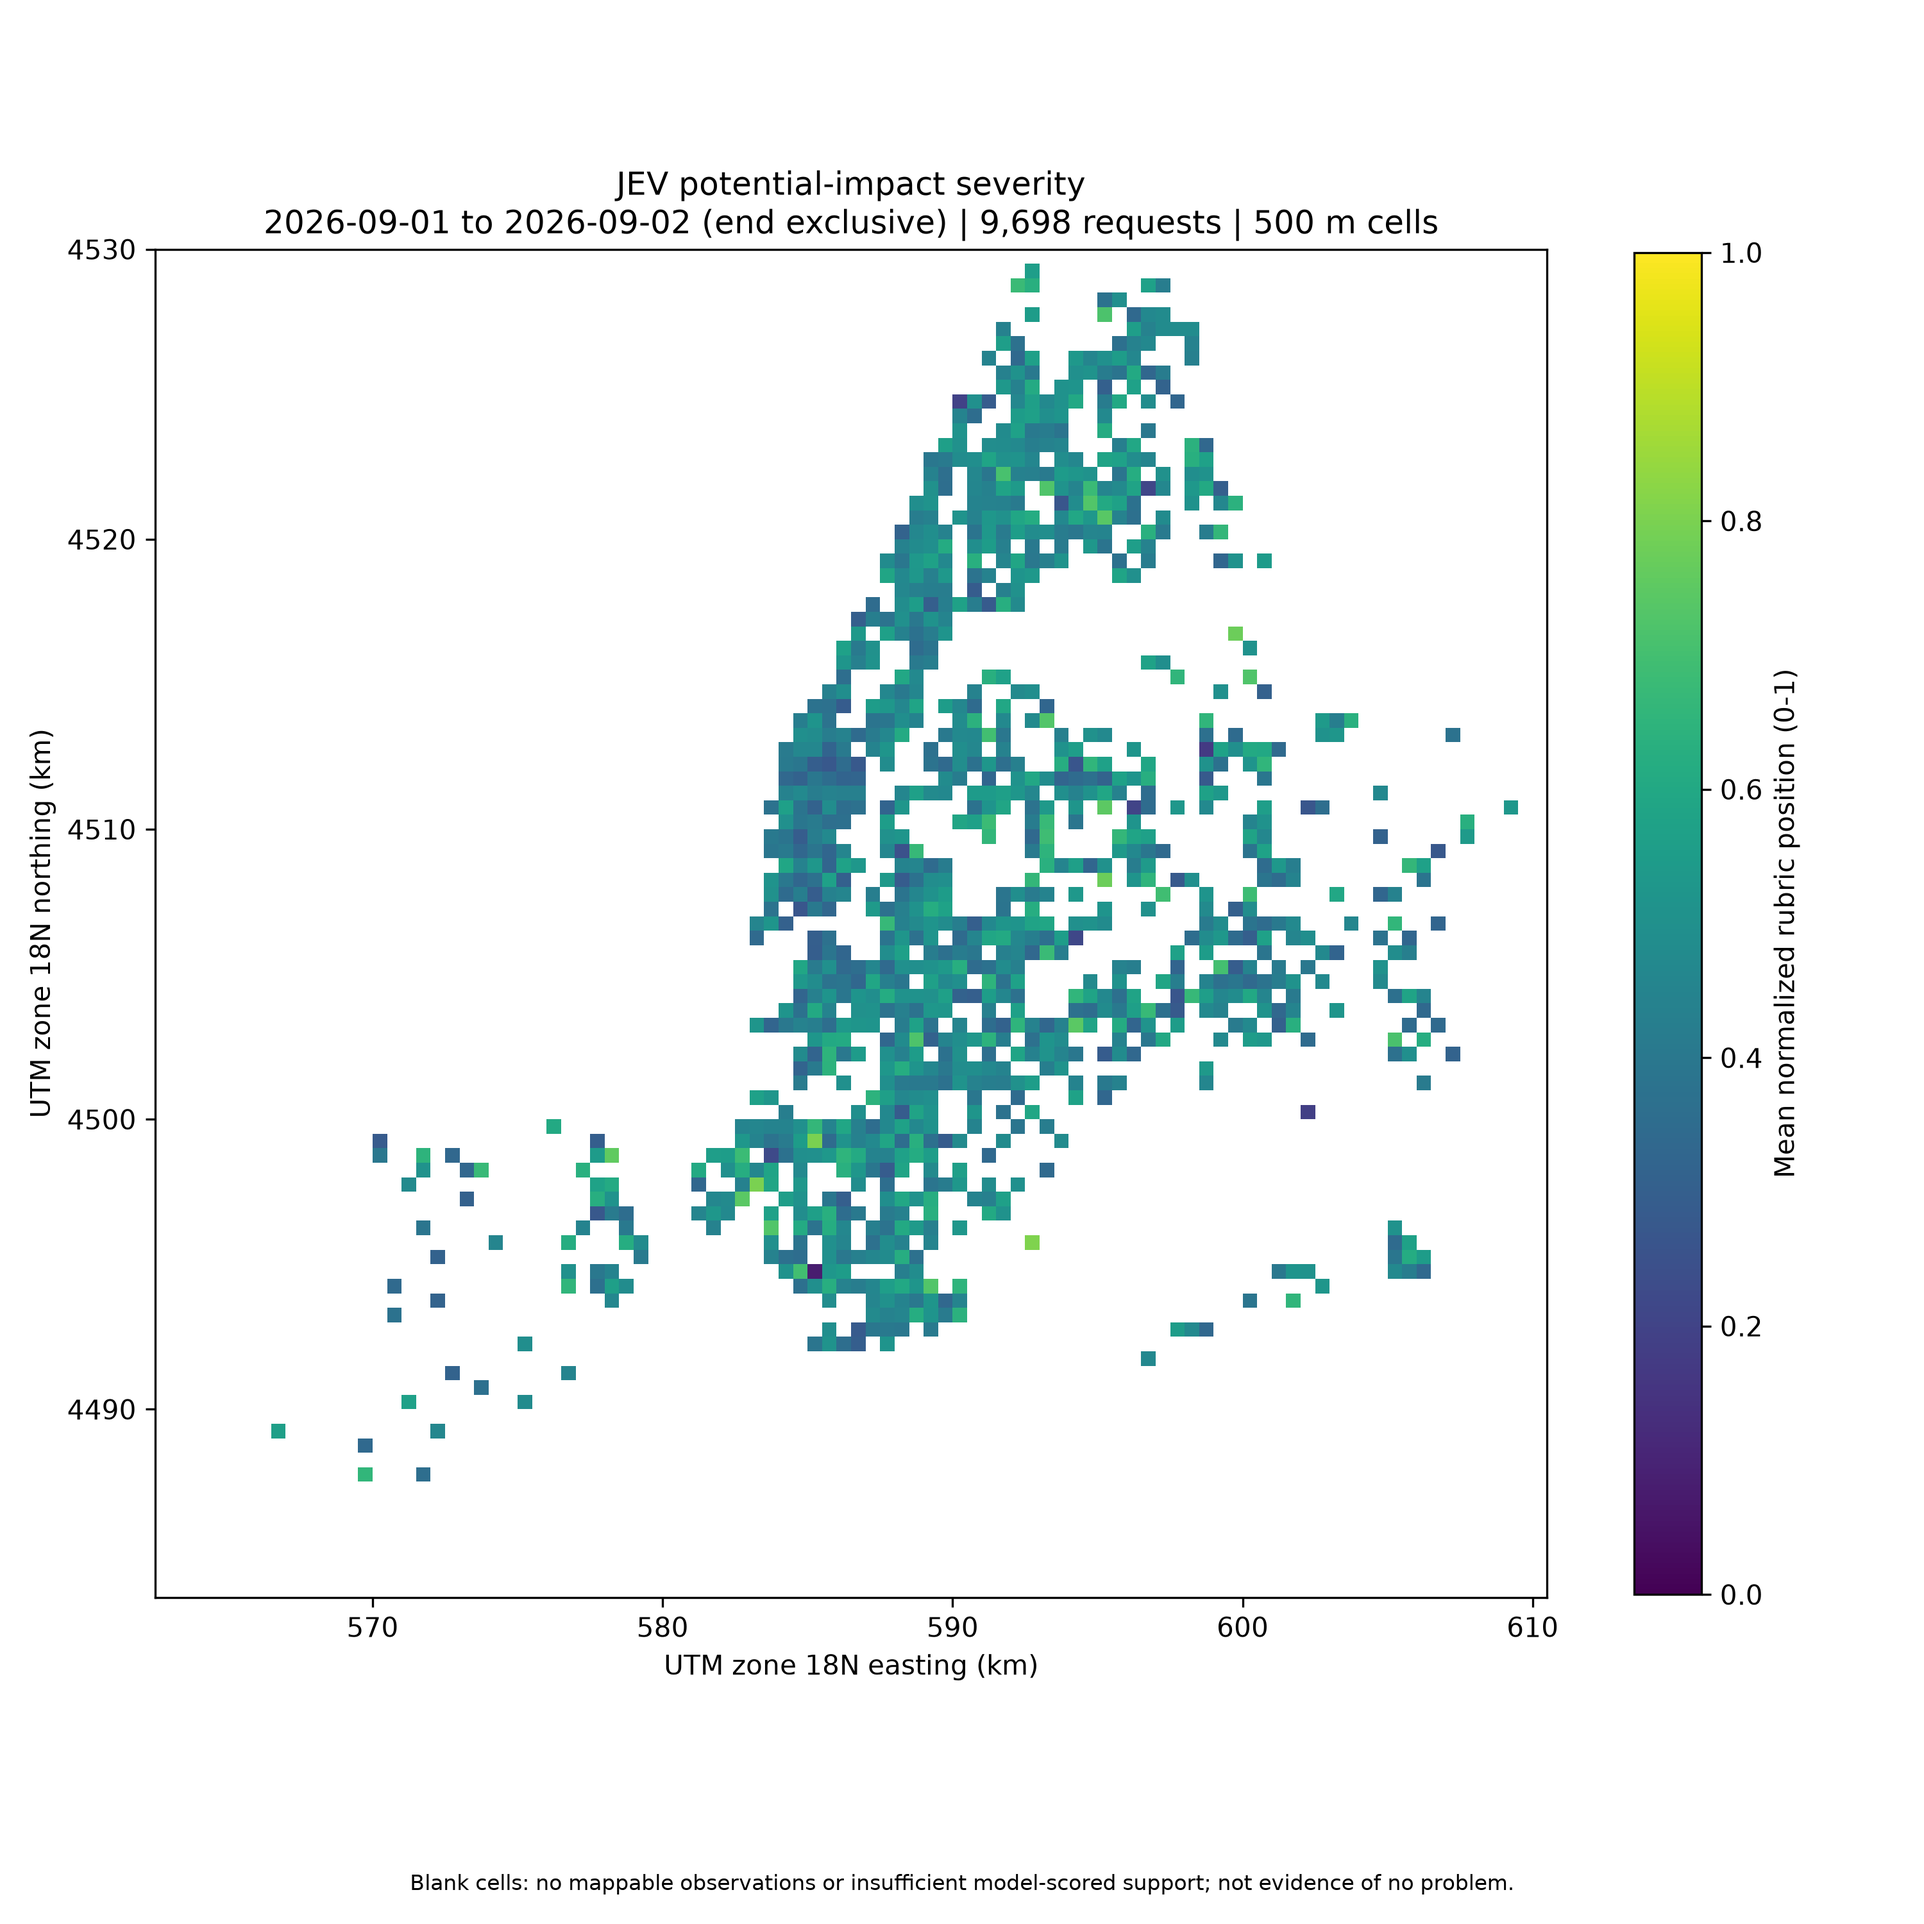
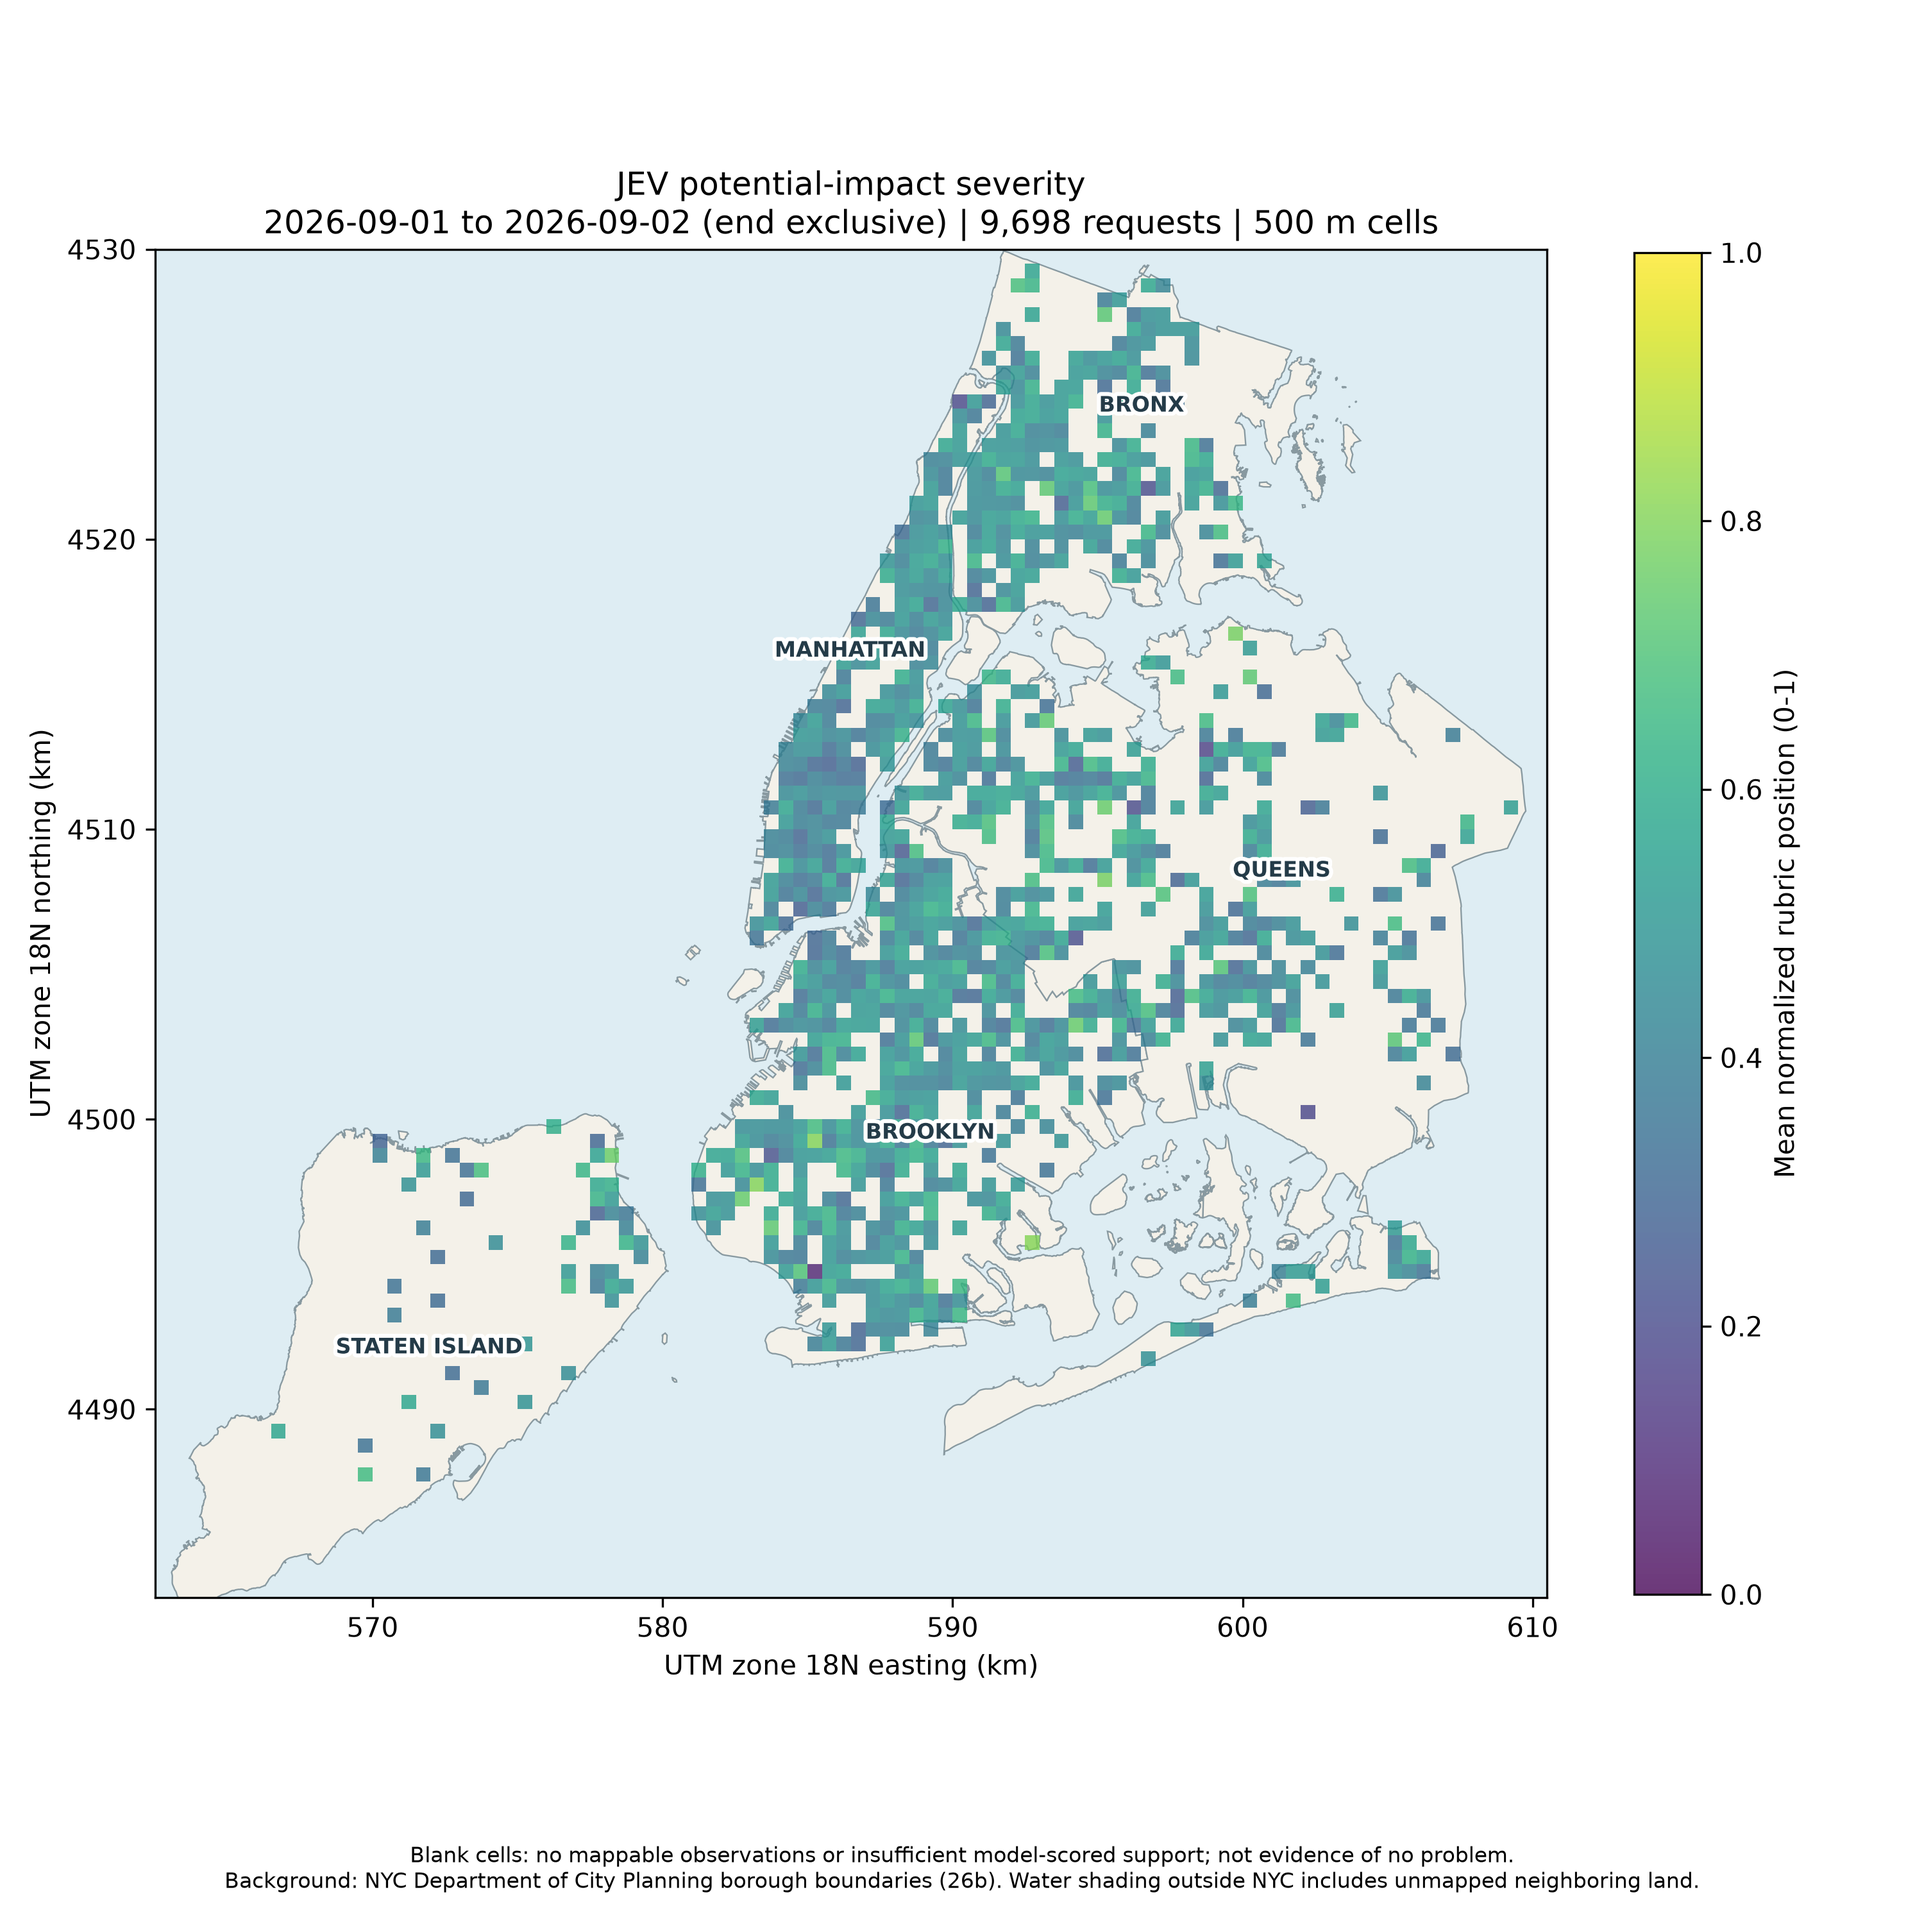
Add borough map backgrounds to published heatmaps

diff --git a/generate_heatmap.py b/generate_heatmap.py
@@ -32,6 +32,9 @@ import requests
 from dotenv import load_dotenv
 from branca.colormap import LinearColormap
 from matplotlib.collections import PolyCollection
+from matplotlib.path import Path as PlotPath
+from matplotlib.patches import PathPatch
+import matplotlib.patheffects as path_effects
 from matplotlib.colors import Normalize, to_hex
 from pyproj import Transformer
 
@@ -437,6 +440,32 @@ def eligible_cells(grid: pd.DataFrame, metric: str, args: argparse.Namespace) ->
     return grid[mask].copy()
 
 
+def draw_map_background(ax: Any, path: Path) -> None:
+    """Draw local WGS84 borough polygons in the heatmap's UTM-kilometer coordinates."""
+    background = json.loads(path.read_text(encoding="utf-8"))
+    project = Transformer.from_crs("EPSG:4326", "EPSG:32618", always_xy=True)
+    ax.set_facecolor("#deedf3")
+    for feature in background["features"]:
+        geometry = feature["geometry"]
+        polygons = geometry["coordinates"] if geometry["type"] == "MultiPolygon" else [geometry["coordinates"]]
+        for polygon in polygons:
+            vertices, codes = [], []
+            for ring in polygon:
+                x, y = project.transform(*zip(*ring))
+                vertices.extend(zip(np.array(x) / 1000, np.array(y) / 1000))
+                codes.extend([PlotPath.MOVETO] + [PlotPath.LINETO] * (len(ring) - 2) + [PlotPath.CLOSEPOLY])
+            ax.add_patch(PathPatch(PlotPath(vertices, codes), facecolor="#f4f1e9",
+                                   edgecolor="#8899a0", linewidth=0.55, zorder=0))
+    labels = {"MANHATTAN": (-73.975, 40.79), "BRONX": (-73.855, 40.865),
+              "QUEENS": (-73.80, 40.72), "BROOKLYN": (-73.945, 40.64),
+              "STATEN ISLAND": (-74.15, 40.575)}
+    for label, (lon, lat) in labels.items():
+        x, y = project.transform(lon, lat)
+        ax.text(x / 1000, y / 1000, label, ha="center", fontsize=8, weight="bold",
+                color="#243b48", zorder=4,
+                path_effects=[path_effects.withStroke(linewidth=3, foreground="white")])
+
+
 def render_metric(grid: pd.DataFrame, metric: str, spec: tuple[str, str, bool],
                   args: argparse.Namespace, subtitle: str) -> bool:
     title, label, bounded = spec
@@ -452,7 +481,11 @@ def render_metric(grid: pd.DataFrame, metric: str, spec: tuple[str, str, bool],
         x, y, size = row.x0_m / 1000, row.y0_m / 1000, args.cell_m / 1000
         rectangles.append([(x, y), (x + size, y), (x + size, y + size), (x, y + size)])
     fig, ax = plt.subplots(figsize=(10, 10))
-    collection = PolyCollection(rectangles, array=values, cmap=cmap, norm=norm, edgecolors="none")
+    background = getattr(args, "background_geojson", None)
+    if background:
+        draw_map_background(ax, background)
+    collection = PolyCollection(rectangles, array=values, cmap=cmap, norm=norm, edgecolors="none",
+                                alpha=0.78 if background else 1.0, zorder=2)
     ax.add_collection(collection)
     # Identical extents across all figures in a run support honest visual comparisons.
     margin = args.cell_m / 1000
@@ -464,6 +497,8 @@ def render_metric(grid: pd.DataFrame, metric: str, spec: tuple[str, str, bool],
     ax.set_title(f"{title}\n{subtitle}", fontsize=12)
     fig.colorbar(collection, ax=ax, shrink=0.75, label=label)
     note = "Blank cells: no mappable observations or insufficient model-scored support; not evidence of no problem."
+    if background:
+        note += "\nBackground: NYC Department of City Planning borough boundaries (26b). Water shading outside NYC includes unmapped neighboring land."
     fig.text(0.5, 0.015, note, ha="center", va="bottom", fontsize=8, wrap=True)
     fig.tight_layout(rect=(0, 0.04, 1, 1))
     fig.savefig(args.output_dir / f"{metric}.png", dpi=args.dpi)
@@ -564,6 +599,7 @@ def parser() -> argparse.ArgumentParser:
     p.add_argument("--min-count", type=int, default=3, help="Minimum scored requests per displayed semantic cell.")
     p.add_argument("--min-coverage", type=float, default=0.9, help="Minimum scoring coverage per displayed semantic cell.")
     p.add_argument("--dpi", type=int, default=300)
+    p.add_argument("--background-geojson", type=Path, help="Local WGS84 NYC borough boundaries for PNG backgrounds.")
     p.add_argument("--category-maps", action="store_true", help="Also render seven fractional category-mass maps.")
     p.add_argument("--dry-run", action="store_true", help="Validate input and report cache/call requirements without calling JEV or rendering.")
     p.add_argument("--overwrite", action="store_true", help="Allow replacing generated files in a nonempty output directory.")
@@ -599,6 +635,10 @@ def run(args: argparse.Namespace) -> dict[str, Any]:
         "state_fields_sent_to_jev": list(STATE_FIELDS) if args.mode == "jev" else [],
         "questions": QUESTIONS if args.mode == "jev" else None,
         "grid_crs": "EPSG:32618 (UTM zone 18N)", "cell_size_m": args.cell_m,
+        "png_background": ({"file": str(args.background_geojson),
+                            "sha256": file_sha256(args.background_geojson),
+                            "source": "https://data.cityofnewyork.us/City-Government/Borough-Boundaries/gthc-hcne"}
+                           if args.background_geojson else None),
         "display_min_scored_count": args.min_count, "display_min_scoring_coverage": args.min_coverage,
         "composite_formula": "0.50*mean(severity_raw/4) + 0.30*mean(safety_probability) + 0.20*log1p(raw_count)/log1p(max_raw_count)",
         "ambiguity_formula_per_request": "((1-severity_confidence)+(1-category_confidence)+4*p*(1-p))/3, where p=safety_probability",

diff --git a/README.md b/README.md
@@ -47,6 +47,18 @@ The live run excluded 205 reports with missing or invalid coordinates, completed
 
 [All result files](results/2026-09-01/) · [Run metadata and source provenance](results/2026-09-01/run_metadata.json)
 
+### Geographic backgrounds
+
+Published PNGs include NYC borough shorelines, land/water shading, and borough labels. Background geometry comes from [NYC Department of City Planning, release 26b](https://data.cityofnewyork.us/City-Government/Borough-Boundaries/gthc-hcne). These are geographic reference backgrounds, not street tiles; neighboring land outside NYC is not represented. Interactive HTML retains its OpenStreetMap street basemap.
+
+Download the boundary file locally (it is excluded from Git):
+
+```powershell
+python -c "import requests,pathlib; r=requests.get('https://data.cityofnewyork.us/resource/gthc-hcne.geojson',timeout=60); r.raise_for_status(); pathlib.Path('data').mkdir(exist_ok=True); pathlib.Path('data/nyc_borough_boundaries.geojson').write_text(r.text,encoding='utf-8')"
+```
+
+Add `--background-geojson data/nyc_borough_boundaries.geojson` when generating heatmaps. Existing cached scores can be reused with `--max-api-calls 0`.
+
 ### Open the interactive maps
 
 From the repository directory, run:
